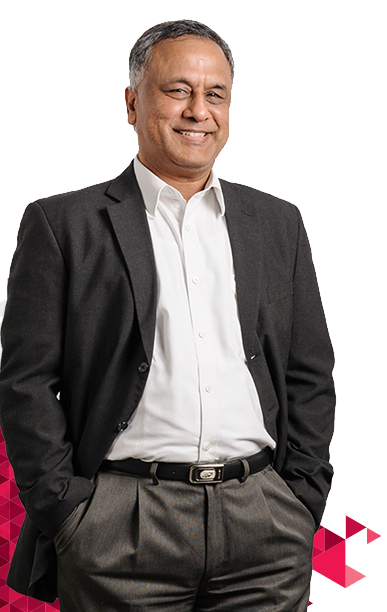
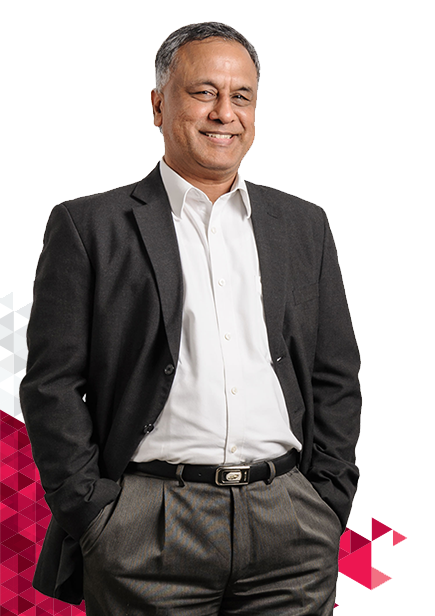
creating new management profile

Changed region(s): [[0.0, 0.031, 0.9922, 1.0], [0.4341, 0.683, 0.4651, 0.7141]]

diff --git a/ar/corporate profile/axiata'14_02_management team.html b/ar/corporate profile/axiata'14_02_management team.html
@@ -150,13 +150,10 @@
 				<div class="name1">
 					<p class="text"> 
 						<img class="arr" src="../assets/img/chapter4/board/arrow.png" />
-<<<<<<< HEAD
+
 						<span class="purple">Datin Sri Badrunnisa Mohd Yasin Khan</span> <br/>
 						Group Chief Talent Officer
-=======
-						<span class="purple">Darke M Sani</span> <br/>
-						Group Chief Human Resources Officer
->>>>>>> 98ff09f8a6e59ada609584eb0e38dc3c4b7e65f6
+
 					</p>
 				</div>
 				<div class="name2">

diff --git a/ar/assets/css/boardmember.css b/ar/assets/css/boardmember.css
@@ -19,9 +19,9 @@ html,body
 .content .pic
 {
 	 position: fixed; left:0px; bottom: 10px;
-	 height: 631px !important;
+	 height: 590px !important;
 	 float:left;
-	 width:437px !important;
+	 width:430px !important;
 		
 }
 
